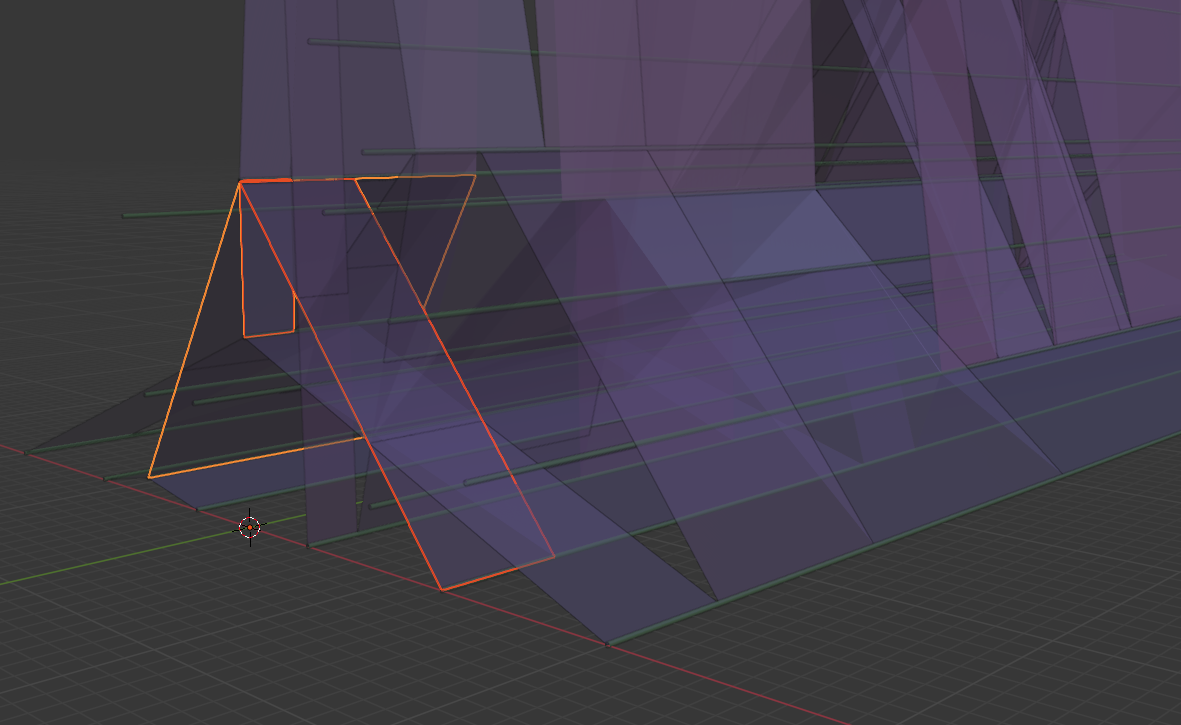
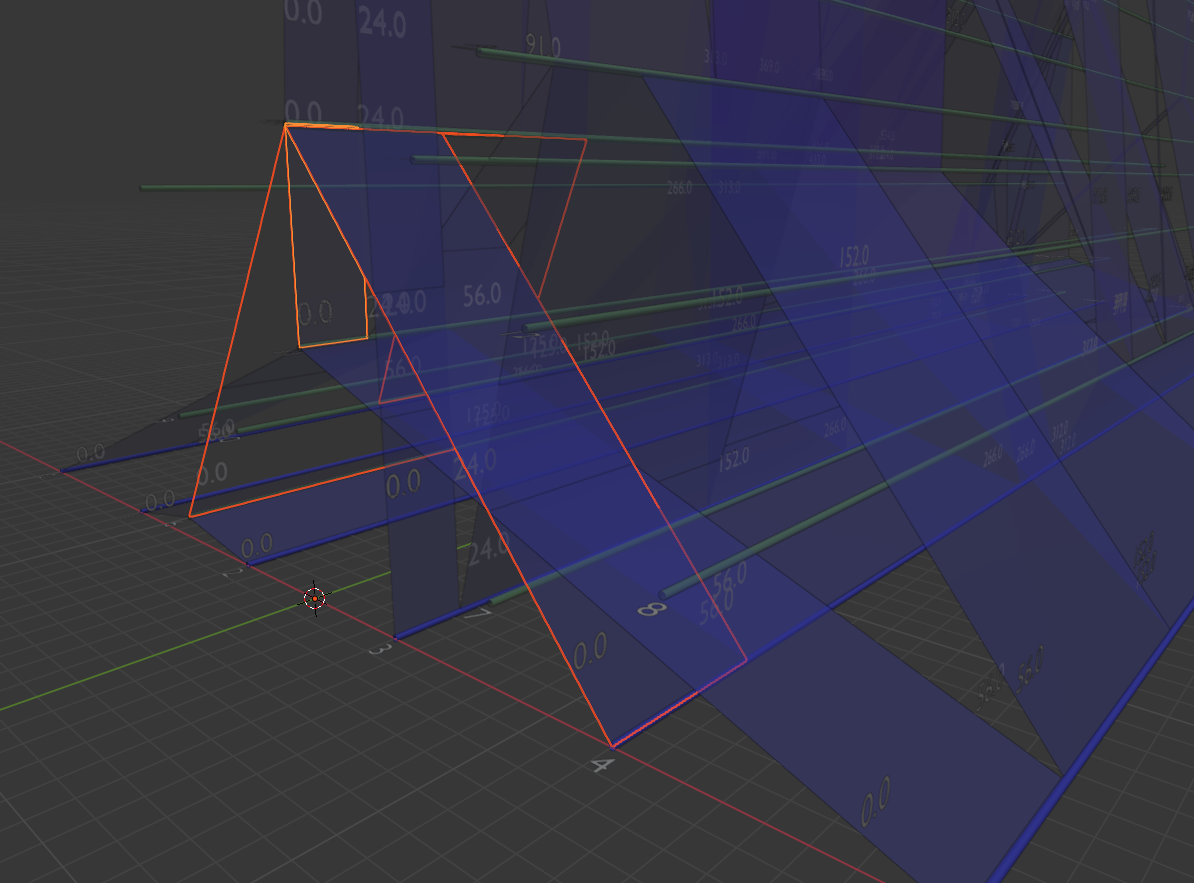
tidy: clearer rendering

diff --git a/example.py b/example.py
@@ -15,7 +15,8 @@ X_SCALE = 8
 Y_SCALE = 0.001
 LEN_SCALE = 0.1
 NODE_COLOUR = (0.5, 1.0, 0.5, 0.5)
-EDGE_COLOUR = (0.3, 0.3, 1.0, 0.3)
+SAMPLE_COLOUR = (0.1, 0.1, 1.0, 1.0)
+EDGE_COLOUR = (0.1, 0.1, 1.0, 0.3)
 HALF_PI = math.pi / 2
 SHOW_TEXT = True
 
@@ -54,8 +55,8 @@ def arg_from_sim(sim: Sim):
     arg.populate_mutations_on_edges()
     return arg
 
-sim_1000_3 = Sim(3, 1_000, 10_000, 2e-7, 1e-7)
-arg = arg_from_sim(sim_1000_3)
+sim_1000 = Sim(3, 1_000, 10_000, 2e-7, 2e-7)
+arg = arg_from_sim(sim_1000)
 
 node_children = {}
 leaf_nodes = []
@@ -147,20 +148,22 @@ for id, x_h in node_x_and_height.items():
 
     material = bpy.data.materials.new(name+"_material")
     material.diffuse_color = NODE_COLOUR
+    if arg.is_leaf(id):
+        material.diffuse_color = SAMPLE_COLOUR
     curvedata.materials.append(material)
     curvedata.bevel_depth = 0.1
 
     if SHOW_TEXT:
-        bpy.ops.object.text_add(location=(x, s - 3, h), rotation=(0, 0, 0))
+        bpy.ops.object.text_add(location=(x, s - 1, h), rotation=(0, 0, 0))
         bpy.context.object.name = f"id_{id}"
         bpy.context.object.data.body = str(id)
 
-        bpy.ops.object.text_add(location=(x, e + 3, h), rotation=(0, 0, 2 * HALF_PI))
+        bpy.ops.object.text_add(location=(x, e + 1, h), rotation=(0, 0, 2 * HALF_PI))
         bpy.context.object.name = f"height_{id}"
         bpy.context.object.data.body = f"{node.height:.3f}"
 
 
-colour_tweak_scale = arg.num_nodes() * 2
+colour_tweak_scale = arg.num_nodes() * 4
 
 def recurse_create_edges(node):
     for edge in node.parent_edges():
@@ -188,14 +191,17 @@ def recurse_create_edges(node):
         #create new material with name of object and assign to obj
         new_mat = bpy.data.materials.new(obj_name)
         edge_colour = [EDGE_COLOUR[i] for i in range(4)]
-        edge_colour[0] += edge.parent.ID / colour_tweak_scale
-        edge_colour[1] += node.ID / colour_tweak_scale
+        if not arg.is_leaf(node.ID):
+            edge_colour[0] += node.ID / colour_tweak_scale
+            edge_colour[3] = 0.05
         new_mat.diffuse_color = edge_colour
         obj.data.materials.append(new_mat)
 
         if SHOW_TEXT:
-            mid_x = (x1 + x2) / 2
-            mid_h = (h1 + h2) / 2
+            u = 0.5
+            v = 1 - u
+            mid_x = u * x1 + v * x2
+            mid_h = u * h1 + v * h2
             bpy.ops.object.text_add(location=(mid_x, s, mid_h), rotation=(HALF_PI, 0, HALF_PI))
             bpy.context.object.name = f"start_{id}"
             bpy.context.object.data.body = str(edge.start)

diff --git a/README.md b/README.md
@@ -1,7 +1,7 @@
 # arg-needle-lib-blender
 
-Blender output to help diagnose ARGs. This is an aid to diagnosis whilst adding
-new features, in particular support for polytomy in arg-needle-lib.
+Blender output to help visualise ARG internals. This is diagnosis aid whilst
+adding new features, in particular support for polytomy in arg-needle-lib.
 
 ## Usage
 
@@ -13,11 +13,12 @@ python example.py && open example.blend
 ```
 
 Example screenshot of internals of ARG. Nodes in an arg can contain many spans
-of edges, so to display this they are shown - somewhat counterintuitively - as
-lines in green. The ARG's edges to other nodes span subregions between nodes
-so these are the rectangles shown from blue to red depending on node ID.
+of edges. To render this they are shown - somewhat counterintuitively for
+nodes - as lines, with samples in blue and internal nodes in green. Edges span
+subregions between start and end range along nodes so these are rendered as
+rectangles, blue at base shifting to red for higher node IDs.
 
 ![screenshot](screenshot.png)
 
-The selection in Blender here shows three different edge spans coming off one
-node.
+The selection in Blender here shows four overlapping edge spans coming off one
+node. Text can be disabled in code by setting `SHOW_TEXT` to False.
